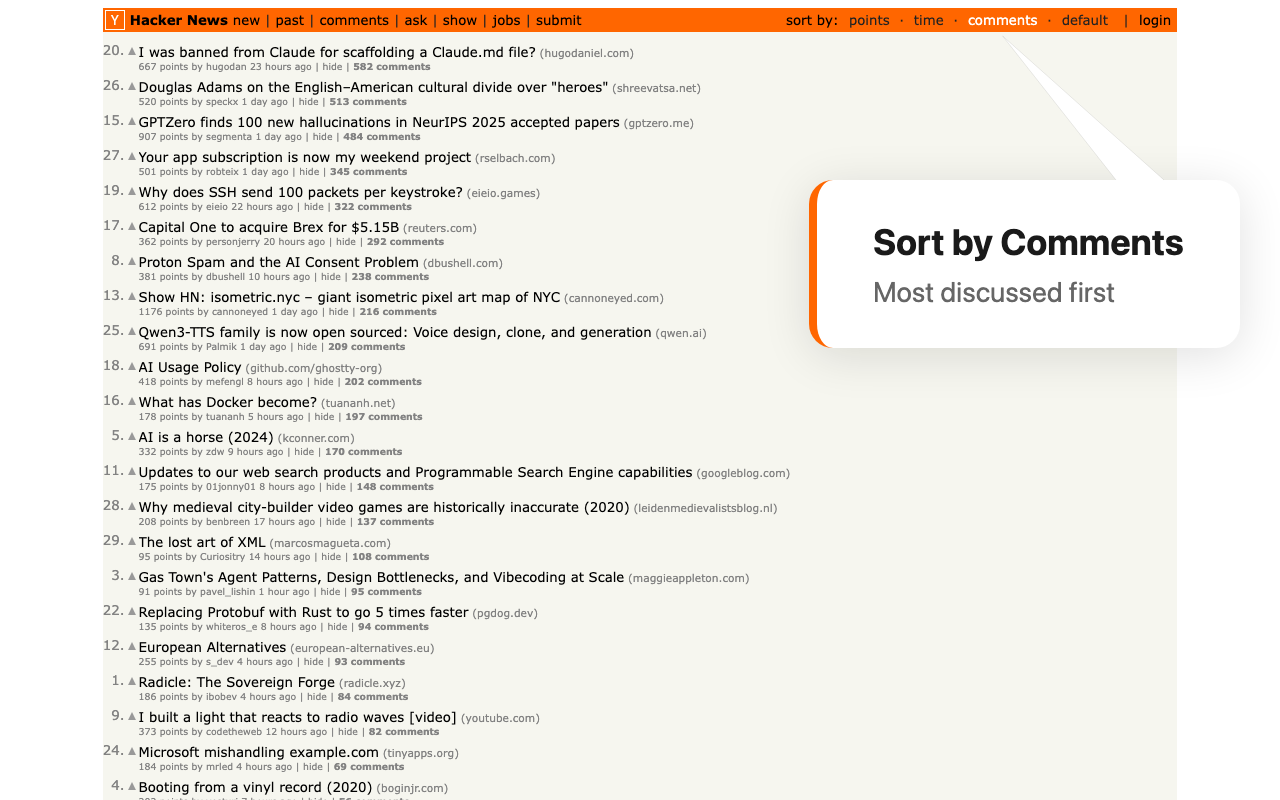
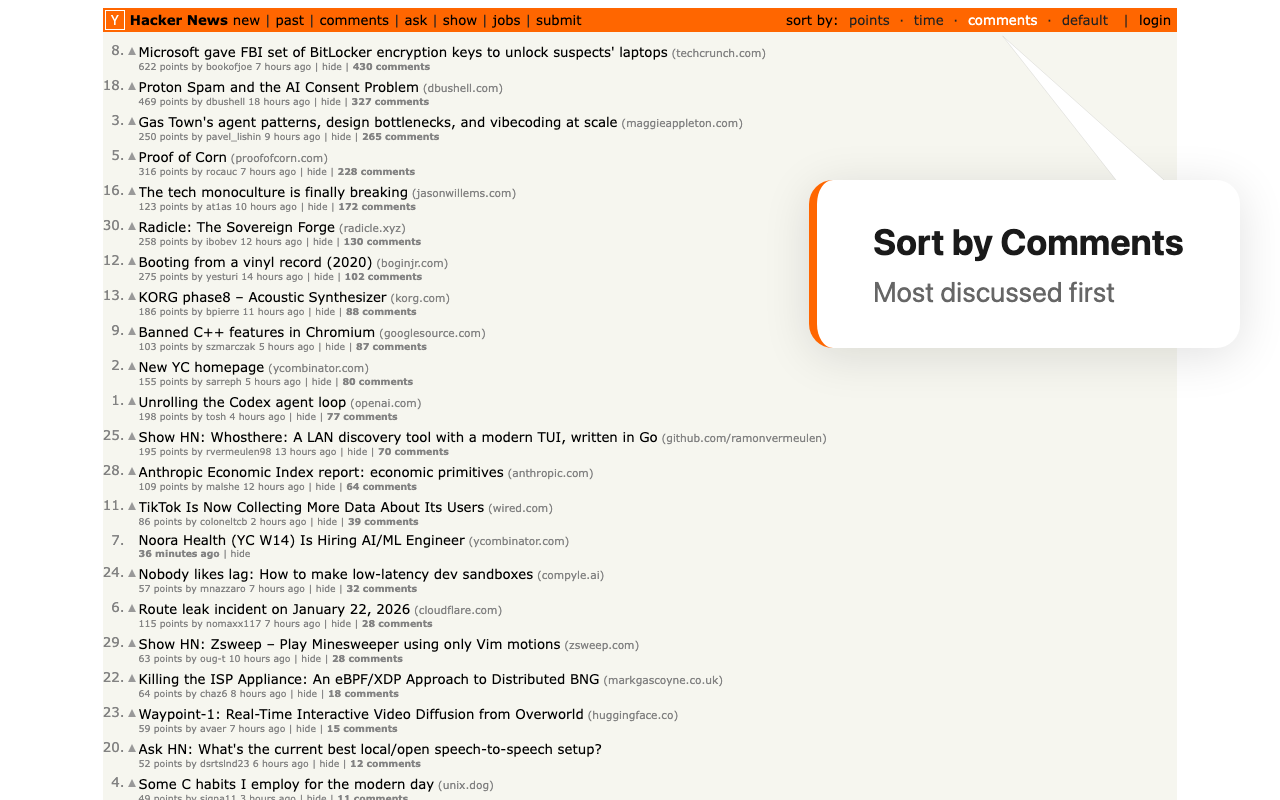
feat(screenshots): replace compact mode with new-post indicators screenshot
Replace the compact/responsive mode screenshot with one showcasing
the new-post indicators feature, which is more relevant to users.

Changed region(s): [[0.0625, 0.0625, 0.625, 1.0]]

diff --git a/scripts/screenshots/browser.ts b/scripts/screenshots/browser.ts
@@ -2,9 +2,9 @@ import path from 'path';
 import type { Browser, Page } from 'playwright';
 import { chromium } from 'playwright';
 
-import { CONTROL_PANEL_ROOT_ID, CSS_CLASSES } from '~app/constants';
+import { CONTROL_PANEL_ROOT_ID, CSS_CLASSES, HN_SELECTORS } from '~app/constants';
 
-import { SCREENSHOT_IDS, VARIANTS } from './constants';
+import { VARIANTS } from './constants';
 import { injectArrow, injectOverlayCard, removeOverlays } from './overlays';
 import { CSS_PATH, JS_PATH, SCREENSHOTS_DIR } from './paths';
 
@@ -22,40 +22,69 @@ export async function injectExtension(page: Page): Promise<void> {
   await page.waitForSelector(`#${CONTROL_PANEL_ROOT_ID}`, { timeout: 5000 });
 }
 
-async function forceCompactMode(page: Page): Promise<void> {
-  await page.addStyleTag({
-    content: `
-      #${CONTROL_PANEL_ROOT_ID} .${CSS_CLASSES.BTN_TEXT} { display: none !important; }
-      #${CONTROL_PANEL_ROOT_ID} .${CSS_CLASSES.BTN_SHORTCUT} { display: inline !important; }
-    `,
-  });
-  await page.evaluate((id) => {
-    const styles = document.querySelectorAll('style');
-    const last = styles[styles.length - 1];
-    if (last) last.id = id;
-  }, SCREENSHOT_IDS.COMPACT_OVERRIDE);
+async function showNewPostIndicators(page: Page): Promise<void> {
+  await page.evaluate(
+    ({ tableBodySelector, showNewClass, newPostClass }) => {
+      const tbody = document.querySelector(tableBodySelector);
+      if (!tbody) return;
+
+      tbody.classList.add(showNewClass);
+
+      // Mark a scattered subset of title rows as new posts
+      const titleRows = tbody.querySelectorAll(':scope > tr:nth-child(3n+1)');
+      const indices = [0, 2, 3, 6, 8, 11];
+      for (const i of indices) {
+        titleRows[i]?.classList.add(newPostClass);
+      }
+    },
+    {
+      tableBodySelector: HN_SELECTORS.TABLE_BODY,
+      showNewClass: CSS_CLASSES.SHOW_NEW,
+      newPostClass: CSS_CLASSES.NEW_POST,
+    },
+  );
 }
 
 export async function captureVariants(page: Page): Promise<void> {
   for (const variant of VARIANTS) {
     await removeOverlays(page);
+    await removeNewPostIndicators(page);
 
-    if (variant.forceCompact) {
-      await forceCompactMode(page);
+    if (variant.showNewPosts) {
+      await showNewPostIndicators(page);
     }
 
     await page.click(`#${CONTROL_PANEL_ROOT_ID} [data-sort="${variant.sort}"]`);
     await page.waitForTimeout(100);
 
-    await injectOverlayCard(page, variant.title, variant.subtitle);
+    await injectOverlayCard(page, variant.title, variant.subtitle, variant.titleNote);
 
-    const arrowTarget = variant.forceCompact
-      ? `#${CONTROL_PANEL_ROOT_ID}`
-      : `#${CONTROL_PANEL_ROOT_ID} [data-sort="${variant.sort}"]`;
-    await injectArrow(page, arrowTarget);
+    if (!variant.hideArrow) {
+      const arrowTarget = `#${CONTROL_PANEL_ROOT_ID} [data-sort="${variant.sort}"]`;
+      await injectArrow(page, arrowTarget);
+    }
 
     const screenshotPath = path.join(SCREENSHOTS_DIR, variant.filename);
     await page.screenshot({ path: screenshotPath });
     console.log(`Saved: ${variant.filename}`);
   }
+}
+
+async function removeNewPostIndicators(page: Page): Promise<void> {
+  await page.evaluate(
+    ({ tableBodySelector, showNewClass, newPostClass }) => {
+      const tbody = document.querySelector(tableBodySelector);
+      if (!tbody) return;
+
+      tbody.classList.remove(showNewClass);
+      for (const row of tbody.querySelectorAll(`.${newPostClass}`)) {
+        row.classList.remove(newPostClass);
+      }
+    },
+    {
+      tableBodySelector: HN_SELECTORS.TABLE_BODY,
+      showNewClass: CSS_CLASSES.SHOW_NEW,
+      newPostClass: CSS_CLASSES.NEW_POST,
+    },
+  );
 }

diff --git a/scripts/screenshots/overlays.ts b/scripts/screenshots/overlays.ts
@@ -6,13 +6,17 @@ export async function removeOverlays(page: Page): Promise<void> {
   await page.evaluate((ids) => {
     document.querySelector(`#${ids.OVERLAY}`)?.remove();
     document.querySelector(`#${ids.ARROW}`)?.remove();
-    document.querySelector(`#${ids.COMPACT_OVERRIDE}`)?.remove();
   }, SCREENSHOT_IDS);
 }
 
-export async function injectOverlayCard(page: Page, title: string, subtitle: string): Promise<void> {
+export async function injectOverlayCard(
+  page: Page,
+  title: string,
+  subtitle: string,
+  titleNote?: string,
+): Promise<void> {
   await page.evaluate(
-    ({ id, styles, title, subtitle }) => {
+    ({ id, styles, title, subtitle, titleNote }) => {
       const overlay = document.createElement('div');
       overlay.id = id;
       overlay.style.cssText = styles.CARD;
@@ -20,6 +24,14 @@ export async function injectOverlayCard(page: Page, title: string, subtitle: str
       const titleEl = document.createElement('div');
       titleEl.style.cssText = styles.TITLE;
       titleEl.textContent = title;
+
+      if (titleNote) {
+        const noteEl = document.createElement('span');
+        noteEl.style.cssText = styles.TITLE_NOTE + ' margin-left: 12px;';
+        noteEl.textContent = titleNote;
+        titleEl.appendChild(noteEl);
+      }
+
       overlay.appendChild(titleEl);
 
       const subtitleEl = document.createElement('div');
@@ -29,7 +41,7 @@ export async function injectOverlayCard(page: Page, title: string, subtitle: str
 
       document.body.appendChild(overlay);
     },
-    { id: SCREENSHOT_IDS.OVERLAY, styles: OVERLAY_STYLES, title, subtitle },
+    { id: SCREENSHOT_IDS.OVERLAY, styles: OVERLAY_STYLES, title, subtitle, titleNote },
   );
 }
 

diff --git a/scripts/screenshots/constants.ts b/scripts/screenshots/constants.ts
@@ -3,7 +3,6 @@ import type { VariantConfig } from './types';
 export const SCREENSHOT_IDS = {
   OVERLAY: 'hns-screenshot-overlay',
   ARROW: 'hns-screenshot-arrow',
-  COMPACT_OVERRIDE: 'hns-compact-override',
 } as const;
 
 export const OVERLAY_STYLES = {
@@ -19,10 +18,11 @@ export const OVERLAY_STYLES = {
     'padding: 40px 56px',
     'z-index: 9999',
     "font-family: -apple-system, BlinkMacSystemFont, 'Segoe UI', Roboto, sans-serif",
-    'max-width: 560px',
+    'max-width: 600px',
   ].join('; '),
   TITLE: 'font-size: 36px; font-weight: 700; color: #1a1a1a; margin-bottom: 12px;',
   SUBTITLE: 'font-size: 28px; font-weight: 400; color: #666;',
+  TITLE_NOTE: 'font-size: 24px; font-weight: 400; color: #999;',
 } as const;
 
 export const ARROW_STYLES = {
@@ -50,9 +50,11 @@ export const VARIANTS: VariantConfig[] = [
   },
   {
     sort: 'default',
-    title: 'Compact Mode',
-    subtitle: 'Keyboard shortcuts on smaller screens',
-    filename: 'screen_responsive.png',
-    forceCompact: true,
+    title: 'New Post Indicators',
+    titleNote: '(optional)',
+    subtitle: 'Orange dots mark new posts since your last visit',
+    filename: 'screen_new_posts.png',
+    showNewPosts: true,
+    hideArrow: true,
   },
 ];

diff --git a/scripts/screenshots/types.ts b/scripts/screenshots/types.ts
@@ -3,7 +3,9 @@ import type { SortVariant } from '~app/types';
 export type VariantConfig = {
   sort: SortVariant;
   title: string;
+  titleNote?: string;
   subtitle: string;
   filename: string;
-  forceCompact?: boolean;
+  showNewPosts?: boolean;
+  hideArrow?: boolean;
 };

diff --git a/CHANGELOG.md b/CHANGELOG.md
@@ -17,7 +17,7 @@ and this project adheres to [Semantic Versioning](https://semver.org/spec/v2.0.0
 - Pre-commit hook via simple-git-hooks and lint-staged
 - Chrome Web Store description file (`description.txt`)
 - Playwright-based screenshot generator for Chrome Web Store images (`bun run screenshots`)
-- New screenshots: default order and compact/responsive mode
+- New screenshots: default order and new-post indicators
 
 ### Changed
 
